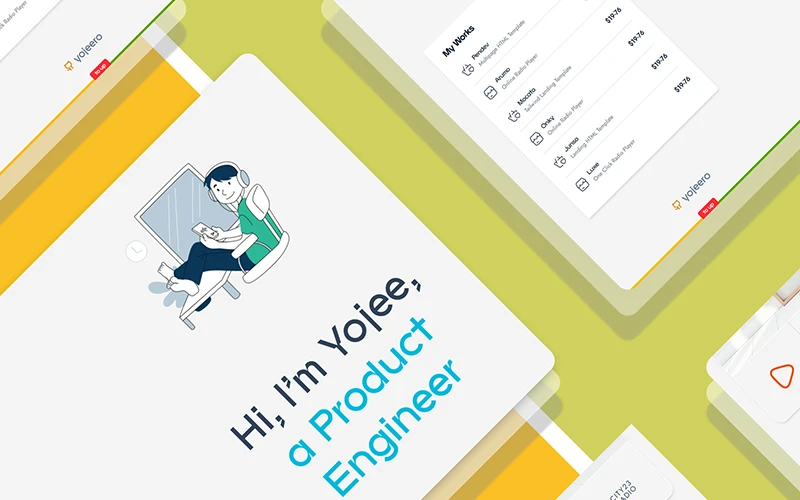
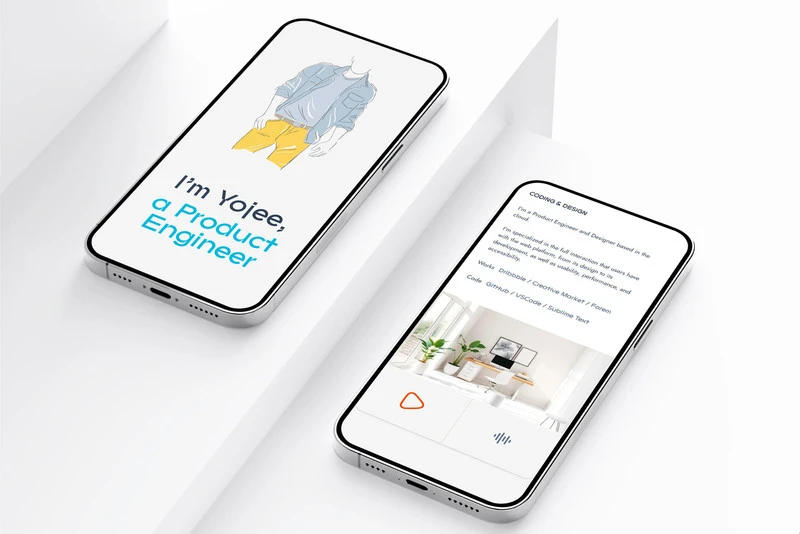
new

diff --git a/css/style.css b/css/style.css
@@ -1,1 +1,1 @@
-@layer properties{@supports (((-webkit-hyphens:none)) and (not (margin-trim:inline))) or ((-moz-orient:inline) and (not (color:rgb(from red r g b)))){*,:before,:after,::backdrop{--tw-divide-y-reverse:0;--tw-border-style:solid;--tw-gradient-position:initial;--tw-gradient-from:#0000;--tw-gradient-via:#0000;--tw-gradient-to:#0000;--tw-gradient-stops:initial;--tw-gradient-via-stops:initial;--tw-gradient-from-position:0%;--tw-gradient-via-position:50%;--tw-gradient-to-position:100%;--tw-leading:initial;--tw-font-weight:initial;--tw-tracking:initial;--tw-shadow:0 0 #0000;--tw-shadow-color:initial;--tw-shadow-alpha:100%;--tw-inset-shadow:0 0 #0000;--tw-inset-shadow-color:initial;--tw-inset-shadow-alpha:100%;--tw-ring-color:initial;--tw-ring-shadow:0 0 #0000;--tw-inset-ring-color:initial;--tw-inset-ring-shadow:0 0 #0000;--tw-ring-inset:initial;--tw-ring-offset-width:0px;--tw-ring-offset-color:#fff;--tw-ring-offset-shadow:0 0 #0000;--tw-duration:initial;--tw-ease:initial}}}@layer theme{:root,:host{--font-sans:ui-sans-serif,system-ui,sans-serif,"Apple Color Emoji","Segoe UI Emoji","Segoe UI Symbol","Noto Color Emoji";--font-mono:ui-monospace,SFMono-Regular,Menlo,Monaco,Consolas,"Liberation Mono","Courier New",monospace;--color-red-500:oklch(63.7% .237 25.331);--color-orange-600:oklch(64.6% .222 41.116);--color-amber-400:oklch(82.8% .189 84.429);--color-amber-600:oklch(66.6% .179 58.318);--color-lime-600:oklch(64.8% .2 131.684);--color-lime-700:oklch(53.2% .157 131.589);--color-green-700:oklch(52.7% .154 150.069);--color-cyan-500:oklch(71.5% .143 215.221);--color-slate-400:oklch(70.4% .04 256.788);--color-slate-500:oklch(55.4% .046 257.417);--color-slate-700:oklch(37.2% .044 257.287);--color-slate-900:oklch(20.8% .042 265.755);--color-gray-200:oklch(92.8% .006 264.531);--color-gray-500:oklch(55.1% .027 264.364);--color-gray-700:oklch(37.3% .034 259.733);--color-gray-900:oklch(21% .034 264.665);--color-stone-50:oklch(98.5% .001 106.423);--color-stone-100:oklch(97% .001 106.424);--color-stone-300:oklch(86.9% .005 56.366);--color-stone-400:oklch(70.9% .01 56.259);--color-stone-600:oklch(44.4% .011 73.639);--color-white:#fff;--spacing:.25rem;--container-md:28rem;--container-2xl:42rem;--container-4xl:56rem;--text-xs:.75rem;--text-xs--line-height:calc(1/.75);--text-sm:.875rem;--text-sm--line-height:calc(1.25/.875);--text-base:1rem;--text-base--line-height: 1.5 ;--text-lg:1.125rem;--text-lg--line-height:calc(1.75/1.125);--text-xl:1.25rem;--text-xl--line-height:calc(1.75/1.25);--text-2xl:1.5rem;--text-2xl--line-height:calc(2/1.5);--text-7xl:4.5rem;--text-7xl--line-height:1;--text-8xl:6rem;--text-8xl--line-height:1;--font-weight-medium:500;--font-weight-semibold:600;--font-weight-bold:700;--tracking-widest:.1em;--leading-normal:1.5;--leading-relaxed:1.625;--radius-sm:.25rem;--radius-md:.375rem;--radius-3xl:1.5rem;--ease-in-out:cubic-bezier(.4,0,.2,1);--default-transition-duration:.15s;--default-transition-timing-function:cubic-bezier(.4,0,.2,1);--default-font-family:var(--font-sans);--default-mono-font-family:var(--font-mono)}}@layer base{*,:after,:before,::backdrop{box-sizing:border-box;border:0 solid;margin:0;padding:0}::file-selector-button{box-sizing:border-box;border:0 solid;margin:0;padding:0}html,:host{-webkit-text-size-adjust:100%;tab-size:4;line-height:1.5;font-family:var(--default-font-family,ui-sans-serif,system-ui,sans-serif,"Apple Color Emoji","Segoe UI Emoji","Segoe UI Symbol","Noto Color Emoji");font-feature-settings:var(--default-font-feature-settings,normal);font-variation-settings:var(--default-font-variation-settings,normal);-webkit-tap-highlight-color:transparent}hr{height:0;color:inherit;border-top-width:1px}abbr:where([title]){-webkit-text-decoration:underline dotted;text-decoration:underline dotted}h1,h2,h3,h4,h5,h6{font-size:inherit;font-weight:inherit}a{color:inherit;-webkit-text-decoration:inherit;text-decoration:inherit}b,strong{font-weight:bolder}code,kbd,samp,pre{font-family:var(--default-mono-font-family,ui-monospace,SFMono-Regular,Menlo,Monaco,Consolas,"Liberation Mono","Courier New",monospace);font-feature-settings:var(--default-mono-font-feature-settings,normal);font-variation-settings:var(--default-mono-font-variation-settings,normal);font-size:1em}small{font-size:80%}sub,sup{vertical-align:baseline;font-size:75%;line-height:0;position:relative}sub{bottom:-.25em}sup{top:-.5em}table{text-indent:0;border-color:inherit;border-collapse:collapse}:-moz-focusring{outline:auto}progress{vertical-align:baseline}summary{display:list-item}ol,ul,menu{list-style:none}img,svg,video,canvas,audio,iframe,embed,object{vertical-align:middle;display:block}img,video{max-width:100%;height:auto}button,input,select,optgroup,textarea{font:inherit;font-feature-settings:inherit;font-variation-settings:inherit;letter-spacing:inherit;color:inherit;opacity:1;background-color:#0000;border-radius:0}::file-selector-button{font:inherit;font-feature-settings:inherit;font-variation-settings:inherit;letter-spacing:inherit;color:inherit;opacity:1;background-color:#0000;border-radius:0}:where(select:is([multiple],[size])) optgroup{font-weight:bolder}:where(select:is([multiple],[size])) optgroup option{padding-inline-start:20px}::file-selector-button{margin-inline-end:4px}::placeholder{opacity:1}@supports (not ((-webkit-appearance:-apple-pay-button))) or (contain-intrinsic-size:1px){::placeholder{color:currentColor}@supports (color:color-mix(in lab,red,red)){::placeholder{color:color-mix(in oklab,currentcolor 50%,transparent)}}}textarea{resize:vertical}::-webkit-search-decoration{-webkit-appearance:none}::-webkit-date-and-time-value{min-height:1lh;text-align:inherit}::-webkit-datetime-edit{display:inline-flex}::-webkit-datetime-edit-fields-wrapper{padding:0}::-webkit-datetime-edit{padding-block:0}::-webkit-datetime-edit-year-field{padding-block:0}::-webkit-datetime-edit-month-field{padding-block:0}::-webkit-datetime-edit-day-field{padding-block:0}::-webkit-datetime-edit-hour-field{padding-block:0}::-webkit-datetime-edit-minute-field{padding-block:0}::-webkit-datetime-edit-second-field{padding-block:0}::-webkit-datetime-edit-millisecond-field{padding-block:0}::-webkit-datetime-edit-meridiem-field{padding-block:0}::-webkit-calendar-picker-indicator{line-height:1}:-moz-ui-invalid{box-shadow:none}button,input:where([type=button],[type=reset],[type=submit]){appearance:button}::file-selector-button{appearance:button}::-webkit-inner-spin-button{height:auto}::-webkit-outer-spin-button{height:auto}[hidden]:where(:not([hidden=until-found])){display:none!important}}@layer components;@layer utilities{.pointer-events-none{pointer-events:none}.visible{visibility:visible}.m-0{margin:calc(var(--spacing)*0)}.m-auto{margin:auto}.my-20{margin-block:calc(var(--spacing)*20)}.ms-3{margin-inline-start:calc(var(--spacing)*3)}.mt-20{margin-top:calc(var(--spacing)*20)}.mr-2{margin-right:calc(var(--spacing)*2)}.mb-4{margin-bottom:calc(var(--spacing)*4)}.mb-8{margin-bottom:calc(var(--spacing)*8)}.block{display:block}.flex{display:flex}.grid{display:grid}.inline-flex{display:inline-flex}.size-full{width:100%;height:100%}.h-2{height:calc(var(--spacing)*2)}.h-6{height:calc(var(--spacing)*6)}.h-8{height:calc(var(--spacing)*8)}.h-10{height:calc(var(--spacing)*10)}.h-12{height:calc(var(--spacing)*12)}.h-12\.5{height:calc(var(--spacing)*12.5)}.h-22{height:calc(var(--spacing)*22)}.h-24{height:calc(var(--spacing)*24)}.h-42{height:calc(var(--spacing)*42)}.h-\[48vh\]{height:48vh}.min-h-dvh{min-height:100dvh}.w-1\/2{width:50%}.w-6{width:calc(var(--spacing)*6)}.w-8{width:calc(var(--spacing)*8)}.w-12{width:calc(var(--spacing)*12)}.w-14{width:calc(var(--spacing)*14)}.w-22{width:calc(var(--spacing)*22)}.w-full{width:100%}.w-screen{width:100vw}.max-w-2xl{max-width:var(--container-2xl)}.max-w-4xl{max-width:var(--container-4xl)}.max-w-md{max-width:var(--container-md)}.flex-1{flex:1}.cursor-pointer{cursor:pointer}.grid-cols-2{grid-template-columns:repeat(2,minmax(0,1fr))}.place-content-center{place-content:center}.place-content-evenly{place-content:space-evenly}.place-items-center{place-items:center}.items-center{align-items:center}.items-end{align-items:flex-end}.justify-between{justify-content:space-between}.justify-center{justify-content:center}.gap-y-8{row-gap:calc(var(--spacing)*8)}.gap-y-14{row-gap:calc(var(--spacing)*14)}:where(.divide-y>:not(:last-child)){--tw-divide-y-reverse:0;border-bottom-style:var(--tw-border-style);border-top-style:var(--tw-border-style);border-top-width:calc(1px*var(--tw-divide-y-reverse));border-bottom-width:calc(1px*calc(1 - var(--tw-divide-y-reverse)))}:where(.divide-gray-200>:not(:last-child)){border-color:var(--color-gray-200)}.place-self-center{place-self:center}.justify-self-center{justify-self:center}.truncate{text-overflow:ellipsis;white-space:nowrap;overflow:hidden}.overflow-hidden{overflow:hidden}.rounded-3xl{border-radius:var(--radius-3xl)}.rounded-md{border-radius:var(--radius-md)}.rounded-s-3xl{border-start-start-radius:var(--radius-3xl);border-end-start-radius:var(--radius-3xl)}.rounded-t-3xl{border-top-left-radius:var(--radius-3xl);border-top-right-radius:var(--radius-3xl)}.rounded-tl-sm{border-top-left-radius:var(--radius-sm)}.rounded-tr-sm{border-top-right-radius:var(--radius-sm)}.border{border-style:var(--tw-border-style);border-width:1px}.border-t{border-top-style:var(--tw-border-style);border-top-width:1px}.border-r{border-right-style:var(--tw-border-style);border-right-width:1px}.border-solid{--tw-border-style:solid;border-style:solid}.border-stone-300{border-color:var(--color-stone-300)}.border-white{border-color:var(--color-white)}.bg-red-500{background-color:var(--color-red-500)}.bg-stone-50{background-color:var(--color-stone-50)}.bg-stone-100{background-color:var(--color-stone-100)}.bg-transparent{background-color:#0000}.bg-white{background-color:var(--color-white)}.bg-linear-to-r{--tw-gradient-position:to right}@supports (background-image:linear-gradient(in lab,red,red)){.bg-linear-to-r{--tw-gradient-position:to right in oklab}}.bg-linear-to-r{background-image:linear-gradient(var(--tw-gradient-stops))}.from-lime-600{--tw-gradient-from:var(--color-lime-600);--tw-gradient-stops:var(--tw-gradient-via-stops,var(--tw-gradient-position),var(--tw-gradient-from)var(--tw-gradient-from-position),var(--tw-gradient-to)var(--tw-gradient-to-position))}.from-stone-400{--tw-gradient-from:var(--color-stone-400);--tw-gradient-stops:var(--tw-gradient-via-stops,var(--tw-gradient-position),var(--tw-gradient-from)var(--tw-gradient-from-position),var(--tw-gradient-to)var(--tw-gradient-to-position))}.from-50\%{--tw-gradient-from-position:50%}.to-amber-400{--tw-gradient-to:var(--color-amber-400);--tw-gradient-stops:var(--tw-gradient-via-stops,var(--tw-gradient-position),var(--tw-gradient-from)var(--tw-gradient-from-position),var(--tw-gradient-to)var(--tw-gradient-to-position))}.to-orange-600{--tw-gradient-to:var(--color-orange-600);--tw-gradient-stops:var(--tw-gradient-via-stops,var(--tw-gradient-position),var(--tw-gradient-from)var(--tw-gradient-from-position),var(--tw-gradient-to)var(--tw-gradient-to-position))}.to-50\%{--tw-gradient-to-position:50%}.object-cover{object-fit:cover}.p-0{padding:calc(var(--spacing)*0)}.p-4{padding:calc(var(--spacing)*4)}.p-8{padding:calc(var(--spacing)*8)}.px-8{padding-inline:calc(var(--spacing)*8)}.py-3{padding-block:calc(var(--spacing)*3)}.py-16{padding-block:calc(var(--spacing)*16)}.text-center{text-align:center}.text-2xl{font-size:var(--text-2xl);line-height:var(--tw-leading,var(--text-2xl--line-height))}.text-7xl{font-size:var(--text-7xl);line-height:var(--tw-leading,var(--text-7xl--line-height))}.text-base{font-size:var(--text-base);line-height:var(--tw-leading,var(--text-base--line-height))}.text-lg{font-size:var(--text-lg);line-height:var(--tw-leading,var(--text-lg--line-height))}.text-sm{font-size:var(--text-sm);line-height:var(--tw-leading,var(--text-sm--line-height))}.text-xl{font-size:var(--text-xl);line-height:var(--tw-leading,var(--text-xl--line-height))}.text-xs{font-size:var(--text-xs);line-height:var(--tw-leading,var(--text-xs--line-height))}.leading-10{--tw-leading:calc(var(--spacing)*10);line-height:calc(var(--spacing)*10)}.leading-none{--tw-leading:1;line-height:1}.leading-normal{--tw-leading:var(--leading-normal);line-height:var(--leading-normal)}.leading-relaxed{--tw-leading:var(--leading-relaxed);line-height:var(--leading-relaxed)}.font-bold{--tw-font-weight:var(--font-weight-bold);font-weight:var(--font-weight-bold)}.font-medium{--tw-font-weight:var(--font-weight-medium);font-weight:var(--font-weight-medium)}.font-semibold{--tw-font-weight:var(--font-weight-semibold);font-weight:var(--font-weight-semibold)}.tracking-widest{--tw-tracking:var(--tracking-widest);letter-spacing:var(--tracking-widest)}.text-amber-600{color:var(--color-amber-600)}.text-cyan-500{color:var(--color-cyan-500)}.text-gray-500{color:var(--color-gray-500)}.text-gray-700{color:var(--color-gray-700)}.text-gray-900{color:var(--color-gray-900)}.text-orange-600{color:var(--color-orange-600)}.text-slate-400\/60{color:#90a1b999}@supports (color:color-mix(in lab,red,red)){.text-slate-400\/60{color:color-mix(in oklab,var(--color-slate-400)60%,transparent)}}.text-slate-500{color:var(--color-slate-500)}.text-slate-700{color:var(--color-slate-700)}.text-slate-900{color:var(--color-slate-900)}.text-white{color:var(--color-white)}.uppercase{text-transform:uppercase}.opacity-0{opacity:0}.shadow-md{--tw-shadow:0 4px 6px -1px var(--tw-shadow-color,#0000001a),0 2px 4px -2px var(--tw-shadow-color,#0000001a);box-shadow:var(--tw-inset-shadow),var(--tw-inset-ring-shadow),var(--tw-ring-offset-shadow),var(--tw-ring-shadow),var(--tw-shadow)}.transition-all{transition-property:all;transition-timing-function:var(--tw-ease,var(--default-transition-timing-function));transition-duration:var(--tw-duration,var(--default-transition-duration))}.duration-300{--tw-duration:.3s;transition-duration:.3s}.ease-in-out{--tw-ease:var(--ease-in-out);transition-timing-function:var(--ease-in-out)}.outline-none{--tw-outline-style:none;outline-style:none}@media(hover:hover){.hover\:cursor-pointer:hover{cursor:pointer}.hover\:border:hover{border-style:var(--tw-border-style);border-width:1px}.hover\:border-stone-600:hover{border-color:var(--color-stone-600)}.hover\:bg-white:hover{background-color:var(--color-white)}.hover\:text-green-700:hover{color:var(--color-green-700)}.hover\:text-lime-700:hover{color:var(--color-lime-700)}.hover\:text-slate-400:hover{color:var(--color-slate-400)}.hover\:shadow-2xl:hover{--tw-shadow:0 25px 50px -12px var(--tw-shadow-color,#00000040);box-shadow:var(--tw-inset-shadow),var(--tw-inset-ring-shadow),var(--tw-ring-offset-shadow),var(--tw-ring-shadow),var(--tw-shadow)}}@media not all and (min-width:64rem){.max-lg\:hidden{display:none}}@media not all and (min-width:40rem){.max-sm\:p-4{padding:calc(var(--spacing)*4)}}@media(min-width:40rem){.sm\:p-8{padding:calc(var(--spacing)*8)}.sm\:py-4{padding-block:calc(var(--spacing)*4)}}@media(min-width:64rem){.lg\:grid{display:grid}.lg\:grid-cols-\[2fr_2fr_3fr\]{grid-template-columns:2fr 2fr 3fr}.lg\:text-8xl{font-size:var(--text-8xl);line-height:var(--tw-leading,var(--text-8xl--line-height))}}}@property --tw-divide-y-reverse{syntax:"*";inherits:false;initial-value:0}@property --tw-border-style{syntax:"*";inherits:false;initial-value:solid}@property --tw-gradient-position{syntax:"*";inherits:false}@property --tw-gradient-from{syntax:"<color>";inherits:false;initial-value:#0000}@property --tw-gradient-via{syntax:"<color>";inherits:false;initial-value:#0000}@property --tw-gradient-to{syntax:"<color>";inherits:false;initial-value:#0000}@property --tw-gradient-stops{syntax:"*";inherits:false}@property --tw-gradient-via-stops{syntax:"*";inherits:false}@property --tw-gradient-from-position{syntax:"<length-percentage>";inherits:false;initial-value:0%}@property --tw-gradient-via-position{syntax:"<length-percentage>";inherits:false;initial-value:50%}@property --tw-gradient-to-position{syntax:"<length-percentage>";inherits:false;initial-value:100%}@property --tw-leading{syntax:"*";inherits:false}@property --tw-font-weight{syntax:"*";inherits:false}@property --tw-tracking{syntax:"*";inherits:false}@property --tw-shadow{syntax:"*";inherits:false;initial-value:0 0 #0000}@property --tw-shadow-color{syntax:"*";inherits:false}@property --tw-shadow-alpha{syntax:"<percentage>";inherits:false;initial-value:100%}@property --tw-inset-shadow{syntax:"*";inherits:false;initial-value:0 0 #0000}@property --tw-inset-shadow-color{syntax:"*";inherits:false}@property --tw-inset-shadow-alpha{syntax:"<percentage>";inherits:false;initial-value:100%}@property --tw-ring-color{syntax:"*";inherits:false}@property --tw-ring-shadow{syntax:"*";inherits:false;initial-value:0 0 #0000}@property --tw-inset-ring-color{syntax:"*";inherits:false}@property --tw-inset-ring-shadow{syntax:"*";inherits:false;initial-value:0 0 #0000}@property --tw-ring-inset{syntax:"*";inherits:false}@property --tw-ring-offset-width{syntax:"<length>";inherits:false;initial-value:0}@property --tw-ring-offset-color{syntax:"*";inherits:false;initial-value:#fff}@property --tw-ring-offset-shadow{syntax:"*";inherits:false;initial-value:0 0 #0000}@property --tw-duration{syntax:"*";inherits:false}@property --tw-ease{syntax:"*";inherits:false}@font-face{font-family:Jost;font-weight:400;font-style:normal;font-display:swap;src:url(../fonts/jost-latin-regular.woff2) format("woff2")}@font-face{font-family:Mabgate-Regular;font-weight:400;font-style:normal;font-display:swap;src:url(../fonts/Mabgate-Regular.woff2) format("woff2")}body{font-family:Jost,"sans-serif";font-weight:400}h1,h2,h3,h4,h5,a{font-family:Mabgate-Regular,"sans-serif"}.loader{position:fixed;top:0;left:0;height:3px;width:0;background-color:#4a5aec;z-index:9999;animation:loadBar 4s ease-in-out forwards}@keyframes loadBar{0%{width:0}80%{width:95%}to{width:100%}}
+@layer properties{@supports (((-webkit-hyphens:none)) and (not (margin-trim:inline))) or ((-moz-orient:inline) and (not (color:rgb(from red r g b)))){*,:before,:after,::backdrop{--tw-divide-y-reverse:0;--tw-border-style:solid;--tw-gradient-position:initial;--tw-gradient-from:#0000;--tw-gradient-via:#0000;--tw-gradient-to:#0000;--tw-gradient-stops:initial;--tw-gradient-via-stops:initial;--tw-gradient-from-position:0%;--tw-gradient-via-position:50%;--tw-gradient-to-position:100%;--tw-leading:initial;--tw-font-weight:initial;--tw-tracking:initial;--tw-shadow:0 0 #0000;--tw-shadow-color:initial;--tw-shadow-alpha:100%;--tw-inset-shadow:0 0 #0000;--tw-inset-shadow-color:initial;--tw-inset-shadow-alpha:100%;--tw-ring-color:initial;--tw-ring-shadow:0 0 #0000;--tw-inset-ring-color:initial;--tw-inset-ring-shadow:0 0 #0000;--tw-ring-inset:initial;--tw-ring-offset-width:0px;--tw-ring-offset-color:#fff;--tw-ring-offset-shadow:0 0 #0000;--tw-duration:initial;--tw-ease:initial}}}@layer theme{:root,:host{--font-sans:ui-sans-serif,system-ui,sans-serif,"Apple Color Emoji","Segoe UI Emoji","Segoe UI Symbol","Noto Color Emoji";--font-mono:ui-monospace,SFMono-Regular,Menlo,Monaco,Consolas,"Liberation Mono","Courier New",monospace;--color-red-500:oklch(63.7% .237 25.331);--color-orange-600:oklch(64.6% .222 41.116);--color-amber-400:oklch(82.8% .189 84.429);--color-lime-600:oklch(64.8% .2 131.684);--color-lime-700:oklch(53.2% .157 131.589);--color-green-700:oklch(52.7% .154 150.069);--color-cyan-500:oklch(71.5% .143 215.221);--color-slate-400:oklch(70.4% .04 256.788);--color-slate-500:oklch(55.4% .046 257.417);--color-slate-600:oklch(44.6% .043 257.281);--color-slate-700:oklch(37.2% .044 257.287);--color-slate-900:oklch(20.8% .042 265.755);--color-gray-200:oklch(92.8% .006 264.531);--color-gray-500:oklch(55.1% .027 264.364);--color-gray-700:oklch(37.3% .034 259.733);--color-gray-900:oklch(21% .034 264.665);--color-stone-50:oklch(98.5% .001 106.423);--color-stone-100:oklch(97% .001 106.424);--color-stone-300:oklch(86.9% .005 56.366);--color-stone-400:oklch(70.9% .01 56.259);--color-stone-600:oklch(44.4% .011 73.639);--color-white:#fff;--spacing:.25rem;--container-md:28rem;--container-2xl:42rem;--container-4xl:56rem;--text-xs:.75rem;--text-xs--line-height:calc(1/.75);--text-sm:.875rem;--text-sm--line-height:calc(1.25/.875);--text-base:1rem;--text-base--line-height: 1.5 ;--text-lg:1.125rem;--text-lg--line-height:calc(1.75/1.125);--text-xl:1.25rem;--text-xl--line-height:calc(1.75/1.25);--text-2xl:1.5rem;--text-2xl--line-height:calc(2/1.5);--text-7xl:4.5rem;--text-7xl--line-height:1;--text-8xl:6rem;--text-8xl--line-height:1;--font-weight-medium:500;--font-weight-semibold:600;--font-weight-bold:700;--tracking-widest:.1em;--leading-normal:1.5;--leading-relaxed:1.625;--radius-sm:.25rem;--radius-md:.375rem;--radius-3xl:1.5rem;--ease-in-out:cubic-bezier(.4,0,.2,1);--default-transition-duration:.15s;--default-transition-timing-function:cubic-bezier(.4,0,.2,1);--default-font-family:var(--font-sans);--default-mono-font-family:var(--font-mono)}}@layer base{*,:after,:before,::backdrop{box-sizing:border-box;border:0 solid;margin:0;padding:0}::file-selector-button{box-sizing:border-box;border:0 solid;margin:0;padding:0}html,:host{-webkit-text-size-adjust:100%;tab-size:4;line-height:1.5;font-family:var(--default-font-family,ui-sans-serif,system-ui,sans-serif,"Apple Color Emoji","Segoe UI Emoji","Segoe UI Symbol","Noto Color Emoji");font-feature-settings:var(--default-font-feature-settings,normal);font-variation-settings:var(--default-font-variation-settings,normal);-webkit-tap-highlight-color:transparent}hr{height:0;color:inherit;border-top-width:1px}abbr:where([title]){-webkit-text-decoration:underline dotted;text-decoration:underline dotted}h1,h2,h3,h4,h5,h6{font-size:inherit;font-weight:inherit}a{color:inherit;-webkit-text-decoration:inherit;text-decoration:inherit}b,strong{font-weight:bolder}code,kbd,samp,pre{font-family:var(--default-mono-font-family,ui-monospace,SFMono-Regular,Menlo,Monaco,Consolas,"Liberation Mono","Courier New",monospace);font-feature-settings:var(--default-mono-font-feature-settings,normal);font-variation-settings:var(--default-mono-font-variation-settings,normal);font-size:1em}small{font-size:80%}sub,sup{vertical-align:baseline;font-size:75%;line-height:0;position:relative}sub{bottom:-.25em}sup{top:-.5em}table{text-indent:0;border-color:inherit;border-collapse:collapse}:-moz-focusring{outline:auto}progress{vertical-align:baseline}summary{display:list-item}ol,ul,menu{list-style:none}img,svg,video,canvas,audio,iframe,embed,object{vertical-align:middle;display:block}img,video{max-width:100%;height:auto}button,input,select,optgroup,textarea{font:inherit;font-feature-settings:inherit;font-variation-settings:inherit;letter-spacing:inherit;color:inherit;opacity:1;background-color:#0000;border-radius:0}::file-selector-button{font:inherit;font-feature-settings:inherit;font-variation-settings:inherit;letter-spacing:inherit;color:inherit;opacity:1;background-color:#0000;border-radius:0}:where(select:is([multiple],[size])) optgroup{font-weight:bolder}:where(select:is([multiple],[size])) optgroup option{padding-inline-start:20px}::file-selector-button{margin-inline-end:4px}::placeholder{opacity:1}@supports (not ((-webkit-appearance:-apple-pay-button))) or (contain-intrinsic-size:1px){::placeholder{color:currentColor}@supports (color:color-mix(in lab,red,red)){::placeholder{color:color-mix(in oklab,currentcolor 50%,transparent)}}}textarea{resize:vertical}::-webkit-search-decoration{-webkit-appearance:none}::-webkit-date-and-time-value{min-height:1lh;text-align:inherit}::-webkit-datetime-edit{display:inline-flex}::-webkit-datetime-edit-fields-wrapper{padding:0}::-webkit-datetime-edit{padding-block:0}::-webkit-datetime-edit-year-field{padding-block:0}::-webkit-datetime-edit-month-field{padding-block:0}::-webkit-datetime-edit-day-field{padding-block:0}::-webkit-datetime-edit-hour-field{padding-block:0}::-webkit-datetime-edit-minute-field{padding-block:0}::-webkit-datetime-edit-second-field{padding-block:0}::-webkit-datetime-edit-millisecond-field{padding-block:0}::-webkit-datetime-edit-meridiem-field{padding-block:0}::-webkit-calendar-picker-indicator{line-height:1}:-moz-ui-invalid{box-shadow:none}button,input:where([type=button],[type=reset],[type=submit]){appearance:button}::file-selector-button{appearance:button}::-webkit-inner-spin-button{height:auto}::-webkit-outer-spin-button{height:auto}[hidden]:where(:not([hidden=until-found])){display:none!important}}@layer components;@layer utilities{.pointer-events-none{pointer-events:none}.visible{visibility:visible}.m-0{margin:calc(var(--spacing)*0)}.m-auto{margin:auto}.my-20{margin-block:calc(var(--spacing)*20)}.ms-3{margin-inline-start:calc(var(--spacing)*3)}.mt-20{margin-top:calc(var(--spacing)*20)}.mr-2{margin-right:calc(var(--spacing)*2)}.mb-4{margin-bottom:calc(var(--spacing)*4)}.mb-8{margin-bottom:calc(var(--spacing)*8)}.block{display:block}.flex{display:flex}.grid{display:grid}.inline-flex{display:inline-flex}.size-full{width:100%;height:100%}.h-2{height:calc(var(--spacing)*2)}.h-6{height:calc(var(--spacing)*6)}.h-8{height:calc(var(--spacing)*8)}.h-10{height:calc(var(--spacing)*10)}.h-12{height:calc(var(--spacing)*12)}.h-12\.5{height:calc(var(--spacing)*12.5)}.h-22{height:calc(var(--spacing)*22)}.h-24{height:calc(var(--spacing)*24)}.h-42{height:calc(var(--spacing)*42)}.h-\[48vh\]{height:48vh}.min-h-dvh{min-height:100dvh}.w-1\/2{width:50%}.w-6{width:calc(var(--spacing)*6)}.w-8{width:calc(var(--spacing)*8)}.w-12{width:calc(var(--spacing)*12)}.w-14{width:calc(var(--spacing)*14)}.w-22{width:calc(var(--spacing)*22)}.w-full{width:100%}.w-screen{width:100vw}.max-w-2xl{max-width:var(--container-2xl)}.max-w-4xl{max-width:var(--container-4xl)}.max-w-md{max-width:var(--container-md)}.flex-1{flex:1}.cursor-pointer{cursor:pointer}.grid-cols-2{grid-template-columns:repeat(2,minmax(0,1fr))}.place-content-center{place-content:center}.place-content-evenly{place-content:space-evenly}.place-items-center{place-items:center}.items-center{align-items:center}.items-end{align-items:flex-end}.justify-between{justify-content:space-between}.justify-center{justify-content:center}.gap-y-8{row-gap:calc(var(--spacing)*8)}.gap-y-14{row-gap:calc(var(--spacing)*14)}:where(.divide-y>:not(:last-child)){--tw-divide-y-reverse:0;border-bottom-style:var(--tw-border-style);border-top-style:var(--tw-border-style);border-top-width:calc(1px*var(--tw-divide-y-reverse));border-bottom-width:calc(1px*calc(1 - var(--tw-divide-y-reverse)))}:where(.divide-gray-200>:not(:last-child)){border-color:var(--color-gray-200)}.place-self-center{place-self:center}.justify-self-center{justify-self:center}.truncate{text-overflow:ellipsis;white-space:nowrap;overflow:hidden}.overflow-hidden{overflow:hidden}.rounded-3xl{border-radius:var(--radius-3xl)}.rounded-md{border-radius:var(--radius-md)}.rounded-s-3xl{border-start-start-radius:var(--radius-3xl);border-end-start-radius:var(--radius-3xl)}.rounded-t-3xl{border-top-left-radius:var(--radius-3xl);border-top-right-radius:var(--radius-3xl)}.rounded-tl-sm{border-top-left-radius:var(--radius-sm)}.rounded-tr-sm{border-top-right-radius:var(--radius-sm)}.border{border-style:var(--tw-border-style);border-width:1px}.border-t{border-top-style:var(--tw-border-style);border-top-width:1px}.border-r{border-right-style:var(--tw-border-style);border-right-width:1px}.border-solid{--tw-border-style:solid;border-style:solid}.border-stone-300{border-color:var(--color-stone-300)}.border-white{border-color:var(--color-white)}.bg-red-500{background-color:var(--color-red-500)}.bg-stone-50{background-color:var(--color-stone-50)}.bg-stone-100{background-color:var(--color-stone-100)}.bg-transparent{background-color:#0000}.bg-white{background-color:var(--color-white)}.bg-linear-to-r{--tw-gradient-position:to right}@supports (background-image:linear-gradient(in lab,red,red)){.bg-linear-to-r{--tw-gradient-position:to right in oklab}}.bg-linear-to-r{background-image:linear-gradient(var(--tw-gradient-stops))}.from-lime-600{--tw-gradient-from:var(--color-lime-600);--tw-gradient-stops:var(--tw-gradient-via-stops,var(--tw-gradient-position),var(--tw-gradient-from)var(--tw-gradient-from-position),var(--tw-gradient-to)var(--tw-gradient-to-position))}.from-stone-400{--tw-gradient-from:var(--color-stone-400);--tw-gradient-stops:var(--tw-gradient-via-stops,var(--tw-gradient-position),var(--tw-gradient-from)var(--tw-gradient-from-position),var(--tw-gradient-to)var(--tw-gradient-to-position))}.from-50\%{--tw-gradient-from-position:50%}.to-amber-400{--tw-gradient-to:var(--color-amber-400);--tw-gradient-stops:var(--tw-gradient-via-stops,var(--tw-gradient-position),var(--tw-gradient-from)var(--tw-gradient-from-position),var(--tw-gradient-to)var(--tw-gradient-to-position))}.to-orange-600{--tw-gradient-to:var(--color-orange-600);--tw-gradient-stops:var(--tw-gradient-via-stops,var(--tw-gradient-position),var(--tw-gradient-from)var(--tw-gradient-from-position),var(--tw-gradient-to)var(--tw-gradient-to-position))}.to-50\%{--tw-gradient-to-position:50%}.object-cover{object-fit:cover}.p-0{padding:calc(var(--spacing)*0)}.p-4{padding:calc(var(--spacing)*4)}.p-8{padding:calc(var(--spacing)*8)}.px-8{padding-inline:calc(var(--spacing)*8)}.py-3{padding-block:calc(var(--spacing)*3)}.py-16{padding-block:calc(var(--spacing)*16)}.text-center{text-align:center}.text-2xl{font-size:var(--text-2xl);line-height:var(--tw-leading,var(--text-2xl--line-height))}.text-7xl{font-size:var(--text-7xl);line-height:var(--tw-leading,var(--text-7xl--line-height))}.text-base{font-size:var(--text-base);line-height:var(--tw-leading,var(--text-base--line-height))}.text-lg{font-size:var(--text-lg);line-height:var(--tw-leading,var(--text-lg--line-height))}.text-sm{font-size:var(--text-sm);line-height:var(--tw-leading,var(--text-sm--line-height))}.text-xl{font-size:var(--text-xl);line-height:var(--tw-leading,var(--text-xl--line-height))}.text-xs{font-size:var(--text-xs);line-height:var(--tw-leading,var(--text-xs--line-height))}.leading-10{--tw-leading:calc(var(--spacing)*10);line-height:calc(var(--spacing)*10)}.leading-none{--tw-leading:1;line-height:1}.leading-normal{--tw-leading:var(--leading-normal);line-height:var(--leading-normal)}.leading-relaxed{--tw-leading:var(--leading-relaxed);line-height:var(--leading-relaxed)}.font-bold{--tw-font-weight:var(--font-weight-bold);font-weight:var(--font-weight-bold)}.font-medium{--tw-font-weight:var(--font-weight-medium);font-weight:var(--font-weight-medium)}.font-semibold{--tw-font-weight:var(--font-weight-semibold);font-weight:var(--font-weight-semibold)}.tracking-widest{--tw-tracking:var(--tracking-widest);letter-spacing:var(--tracking-widest)}.text-cyan-500{color:var(--color-cyan-500)}.text-gray-500{color:var(--color-gray-500)}.text-gray-700{color:var(--color-gray-700)}.text-gray-900{color:var(--color-gray-900)}.text-orange-600{color:var(--color-orange-600)}.text-slate-500{color:var(--color-slate-500)}.text-slate-600{color:var(--color-slate-600)}.text-slate-700{color:var(--color-slate-700)}.text-slate-900{color:var(--color-slate-900)}.text-white{color:var(--color-white)}.uppercase{text-transform:uppercase}.opacity-0{opacity:0}.shadow-md{--tw-shadow:0 4px 6px -1px var(--tw-shadow-color,#0000001a),0 2px 4px -2px var(--tw-shadow-color,#0000001a);box-shadow:var(--tw-inset-shadow),var(--tw-inset-ring-shadow),var(--tw-ring-offset-shadow),var(--tw-ring-shadow),var(--tw-shadow)}.transition-all{transition-property:all;transition-timing-function:var(--tw-ease,var(--default-transition-timing-function));transition-duration:var(--tw-duration,var(--default-transition-duration))}.duration-300{--tw-duration:.3s;transition-duration:.3s}.ease-in-out{--tw-ease:var(--ease-in-out);transition-timing-function:var(--ease-in-out)}.outline-none{--tw-outline-style:none;outline-style:none}@media(hover:hover){.hover\:cursor-pointer:hover{cursor:pointer}.hover\:border:hover{border-style:var(--tw-border-style);border-width:1px}.hover\:border-stone-600:hover{border-color:var(--color-stone-600)}.hover\:bg-white:hover{background-color:var(--color-white)}.hover\:text-green-700:hover{color:var(--color-green-700)}.hover\:text-lime-700:hover{color:var(--color-lime-700)}.hover\:text-slate-400:hover{color:var(--color-slate-400)}.hover\:shadow-2xl:hover{--tw-shadow:0 25px 50px -12px var(--tw-shadow-color,#00000040);box-shadow:var(--tw-inset-shadow),var(--tw-inset-ring-shadow),var(--tw-ring-offset-shadow),var(--tw-ring-shadow),var(--tw-shadow)}}@media not all and (min-width:64rem){.max-lg\:hidden{display:none}}@media not all and (min-width:40rem){.max-sm\:p-4{padding:calc(var(--spacing)*4)}}@media(min-width:40rem){.sm\:p-8{padding:calc(var(--spacing)*8)}.sm\:py-4{padding-block:calc(var(--spacing)*4)}}@media(min-width:64rem){.lg\:grid{display:grid}.lg\:grid-cols-\[2fr_2fr_3fr\]{grid-template-columns:2fr 2fr 3fr}.lg\:text-8xl{font-size:var(--text-8xl);line-height:var(--tw-leading,var(--text-8xl--line-height))}}}@property --tw-divide-y-reverse{syntax:"*";inherits:false;initial-value:0}@property --tw-border-style{syntax:"*";inherits:false;initial-value:solid}@property --tw-gradient-position{syntax:"*";inherits:false}@property --tw-gradient-from{syntax:"<color>";inherits:false;initial-value:#0000}@property --tw-gradient-via{syntax:"<color>";inherits:false;initial-value:#0000}@property --tw-gradient-to{syntax:"<color>";inherits:false;initial-value:#0000}@property --tw-gradient-stops{syntax:"*";inherits:false}@property --tw-gradient-via-stops{syntax:"*";inherits:false}@property --tw-gradient-from-position{syntax:"<length-percentage>";inherits:false;initial-value:0%}@property --tw-gradient-via-position{syntax:"<length-percentage>";inherits:false;initial-value:50%}@property --tw-gradient-to-position{syntax:"<length-percentage>";inherits:false;initial-value:100%}@property --tw-leading{syntax:"*";inherits:false}@property --tw-font-weight{syntax:"*";inherits:false}@property --tw-tracking{syntax:"*";inherits:false}@property --tw-shadow{syntax:"*";inherits:false;initial-value:0 0 #0000}@property --tw-shadow-color{syntax:"*";inherits:false}@property --tw-shadow-alpha{syntax:"<percentage>";inherits:false;initial-value:100%}@property --tw-inset-shadow{syntax:"*";inherits:false;initial-value:0 0 #0000}@property --tw-inset-shadow-color{syntax:"*";inherits:false}@property --tw-inset-shadow-alpha{syntax:"<percentage>";inherits:false;initial-value:100%}@property --tw-ring-color{syntax:"*";inherits:false}@property --tw-ring-shadow{syntax:"*";inherits:false;initial-value:0 0 #0000}@property --tw-inset-ring-color{syntax:"*";inherits:false}@property --tw-inset-ring-shadow{syntax:"*";inherits:false;initial-value:0 0 #0000}@property --tw-ring-inset{syntax:"*";inherits:false}@property --tw-ring-offset-width{syntax:"<length>";inherits:false;initial-value:0}@property --tw-ring-offset-color{syntax:"*";inherits:false;initial-value:#fff}@property --tw-ring-offset-shadow{syntax:"*";inherits:false;initial-value:0 0 #0000}@property --tw-duration{syntax:"*";inherits:false}@property --tw-ease{syntax:"*";inherits:false}@font-face{font-family:Jost;font-weight:400;font-style:normal;font-display:swap;src:url(../fonts/jost-latin-regular.woff2) format("woff2")}@font-face{font-family:Mabgate-Regular;font-weight:400;font-style:normal;font-display:swap;src:url(../fonts/Mabgate-Regular.woff2) format("woff2")}body{font-family:Jost,"sans-serif";font-weight:400}h1,h2,h3,h4,h5,a{font-family:Mabgate-Regular,"sans-serif"}.loader{position:fixed;top:0;left:0;height:3px;width:0;background-color:#65a30d;z-index:9999;animation:loadBar 4s ease-in-out forwards}@keyframes loadBar{0%{width:0}80%{width:95%}to{width:100%}}

diff --git a/index.html b/index.html
@@ -40,7 +40,7 @@
 
       <h1 class="grid leading-normal text-center place-self-center lg:text-8xl text-7xl mb-8">
         I'm Yojee,
-        <p class="text-slate-400/60 leading-none">a Product Engineer</p>
+        <p class="text-cyan-500 leading-none">a Product Engineer</p>
       </h1>
     </div>
 
@@ -372,9 +372,9 @@
 
     <!-- YOJEE -->
     <div class="grid w-full mt-20 h-24 place-items-center" id="foo">
-      <a class="flex items-center justify-center text-2xl text-slate-500 hover:text-green-700"
+      <a class="flex items-center justify-center text-2xl text-cyan-500 hover:text-green-700"
         href="https://github.com/yojeero" target="_blank">
-        <svg class="w-6 h-6 mr-2 text-amber-600" viewBox="0 0 24 24" fill="none" stroke="currentColor" stroke-width="2"
+        <svg class="w-6 h-6 mr-2 text-slate-600" viewBox="0 0 24 24" fill="none" stroke="currentColor" stroke-width="2"
           stroke-linecap="round" stroke-linejoin="round">
           <path
             d="M15 22v-4a4.8 4.8 0 0 0-1-3.5c3 0 6-2 6-5.5.08-1.25-.27-2.48-1-3.5.28-1.15.28-2.35 0-3.5 0 0-1 0-3 1.5-2.64-.5-5.36-.5-8 0C6 2 5 2 5 2c-.3 1.15-.3 2.35 0 3.5A5.403 5.403 0 0 0 4 9c0 3.5 3 5.5 6 5.5-.39.49-.68 1.05-.85 1.65-.17.6-.22 1.23-.15 1.85v4" />

diff --git a/README.md b/README.md
@@ -1,7 +1,7 @@
 <img src="preview/git.webp">
 
 - 100% Responsive
-- Tailwind v4 and Vite
+- Tailwind v4
 - HTML5 and CSS
 - Vanilla JS
 - Google Font
